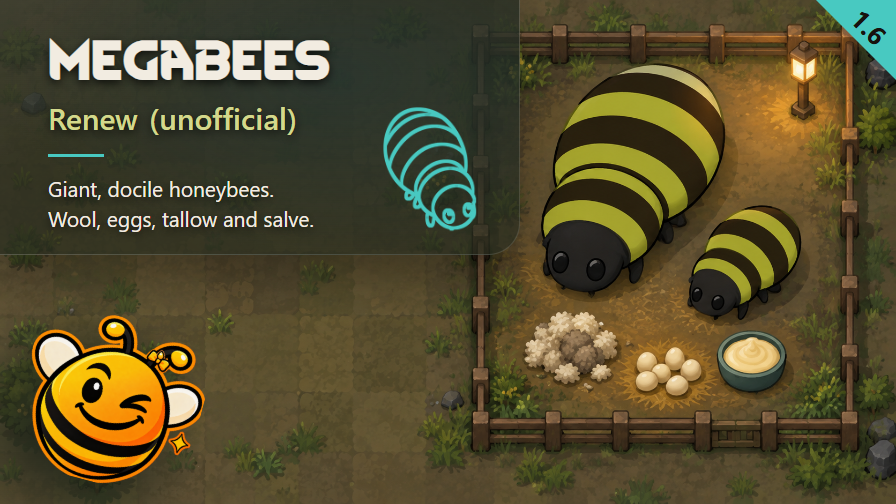
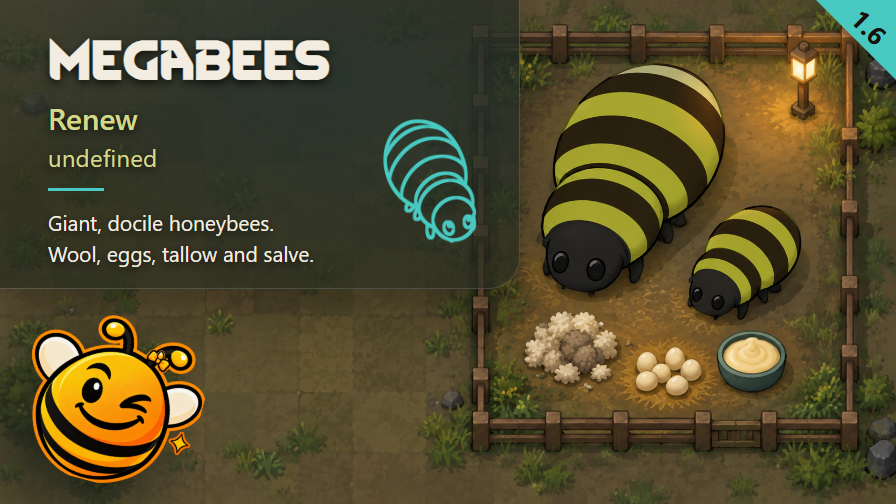
Licence open: drop (unofficial) and UNOFFICIAL paragraph, permission in ATTRIBUTION, Preview regenerated, author line per PUBLISHING.md; protocols read

diff --git a/Tests/test_mod.py b/Tests/test_mod.py
@@ -37,9 +37,9 @@ class ModTests(unittest.TestCase):
     def test_metadata(self):
         a=E.parse(R/'Mod/About/About.xml').getroot()
         self.assertEqual(a.findtext('packageId'),'nelim.megabees')
-        self.assertEqual(a.findtext('name'),'Megabees Renew (unofficial)')
+        self.assertEqual(a.findtext('name'),'Megabees Renew')
         self.assertEqual(a.findtext('supportedVersions/li'),'1.6')
-        self.assertTrue(a.findtext('description').startswith('UNOFFICIAL.'))
+        self.assertNotIn('UNOFFICIAL',a.findtext('description'))
         self.assertTrue(a.findtext('description').endswith('Source code on GitHub ('+a.findtext('url')+')'))
         self.assertEqual((R/'ATTRIBUTION.md').read_bytes(),(R/'Mod/ATTRIBUTION.md').read_bytes())
 

diff --git a/PUBLICATION.md b/PUBLICATION.md
@@ -1,4 +1,4 @@
-# Publication: Megabees Renew (unofficial)
+# Publication: Megabees Renew
 
 What the Workshop page asks for and the repository holds nowhere else: the description, the change notes, the order of the
 captures, the messages to the mods this one is built on, the dependencies, and the answer to the content questions. It serves
@@ -11,16 +11,14 @@ The rules this follows are in `PUBLISHING.md` and `AUDIT.md`, steps `tested -> p
 ## Steam description
 
 The single source, in Markdown: the CI converts it to the Steam description (BBCode) and to the plain-text `<description>` of
-`Mod/About/About.xml`, and stops when they differ. **`About.xml` was regenerated from this block on 2026-10-08 (plain text: bold marks dropped, links written `text (url)`); it is regenerated from this block, not the other way round.** The block below keeps that text, with the sections the rules add: it opens with the UNOFFICIAL paragraph, has `IF I GO
+`Mod/About/About.xml`, and stops when they differ. **`About.xml` was regenerated from this block on 2026-10-08 (plain text: bold marks dropped, links written `text (url)`); it is regenerated from this block, not the other way round.** The block below keeps that text, with the sections the rules add: it has `IF I GO
 QUIET`, `AI-GENERATED` and `THANKS` in that order after the body, then the pointer to `ATTRIBUTION.md` and the licence, and ends with
 the source link. It contains no code fence.
 
 ```markdown
-UNOFFICIAL. This mod is published without the original author's explicit consent. If the original author contacts me to request its removal, I undertake to take it down promptly.
-
 The megabee, brought forward to RimWorld 1.6. A stingless, docile, enormous honeybee engineered to produce rather than to sting.
 
-I am not the author of this mod. The bee is zoura3025's; all I did was the work needed to make it run on 1.6. Credit goes to them, mistakes in the update are mine. If they come back to it, or ask me to take this down, it comes down.
+I am not the author of this mod. The bee is zoura3025's; all I did was the work needed to make it run on 1.6. Credit goes to them, mistakes in the update are mine. They answered my thanks with their permission to maintain it. If they come back to it, or ask me to take this down, it comes down.
 
 Original mod: [Megabees](https://steamcommunity.com/sharedfiles/filedetails/?id=2830700043), last supporting 1.4, last updated in January 2023. Abandoned, not withdrawn.
 
@@ -126,13 +124,13 @@ whether one is still needed. Register updated 2026-10-09 (`WORKSHOP_COMMENTS.md`
 **For Make Honey EVEN MORE Compatible** (page 2959585309; authors per its About.xml: Zaljerem, Steaplay, TurtleShroom), not read yet:
 
 ```
-Hi :) your Mega Bees category under Honey asks for oldmegabee_east, a texture only the original ships, so with the 1.6 port the icon was a red square. I repointed it on my side, nothing of yours is copied: [url=https://steamcommunity.com/sharedfiles/filedetails/?id=3811291235]Megabees Renew (unofficial)[/url]. Thanks for the patch!
+Hi :) your Mega Bees category under Honey asks for oldmegabee_east, a texture only the original ships, so with the 1.6 port the icon was a red square. I repointed it on my side, nothing of yours is copied: [url=https://steamcommunity.com/sharedfiles/filedetails/?id=3811291235]Megabees Renew[/url]. Thanks for the patch!
 ```
 
 **For zoura3025**, on the page of the original:
 
 ```
-Hi zoura3025 :) your megabee was stuck at 1.4, so I carried it to 1.6, credit and all: [url=https://steamcommunity.com/sharedfiles/filedetails/?id=3811291235]Megabees Renew (unofficial)[/url]. Its wildness had silently stopped being read, so it tamed for nothing; that is the only change to your files. If you want it down, say so and it goes.
+Hi zoura3025 :) your megabee was stuck at 1.4, so I carried it to 1.6, credit and all: [url=https://steamcommunity.com/sharedfiles/filedetails/?id=3811291235]Megabees Renew[/url]. Its wildness had silently stopped being read, so it tamed for nothing; that is the only change to your files. If you want it down, say so and it goes.
 ```
 
 ## Dependencies and DLC

diff --git a/STATUS.md b/STATUS.md
@@ -3,7 +3,7 @@ localization: complete
 translation_en: complete
 translation_fr: complete
 settings_audit: not_applicable
-mod:          Megabees Renew (unofficial)
+mod:          Megabees Renew
 packageId:    nelim.megabees
 repo:         Rimworld-Megabees-Renew
 visibility:   public
@@ -26,7 +26,7 @@ code_review_sha: e306e4c69f4999efc8374c34897ef3345332458b
 publication_changelog_review_sha: 313b07d02bf27b9a6f4e6853923f125688d0a14a
 session:      megabees / published[1.0.0]
 updated:      2026-10-09
-protocols_read_sha: 83a2aadef0db6a0f1239dec6eb06f6b651d9e32f
+protocols_read_sha: 742ef65b57aa69474295cd3543e5dd197eec025c
 ---
 
 # Megabees Renew — status
@@ -41,8 +41,8 @@ Older dated sections (audits 2026-09-13 to 2026-10-09, dry-run, publication) are
 - **Translations.** English native in `Mod/Defs`; French 30 keys reviewed by Virginie 2026-10-09; no pawn agreement (animal).
 - **Settings.** `not_applicable`: fixed content balance, no settings page or shortcut.
 - **Compatibility.** Optional ADS 2 patch (`loadBefore`); no patch for XND Nocturnal Animals, Better Crossbreeding, Dogs mate (written reasons in `docs/runs`). Declared incompatible with the original (`zoura3025.megabees`). Hard dependencies: none.
-- **Upstream.** Original has no repository (About.xml has no `<url>`); no PR possible. Licence `silent`; ATTRIBUTION.md identical in `Mod/`.
-- **Next.** Test with Make Honey EVEN MORE Compatible (2959585309), after the non-regression. The cleanup of evidence and WSL waits for that test.
+- **Upstream.** Original has no repository (About.xml has no `<url>`); no PR possible. Licence `open` (permission quoted in ATTRIBUTION.md, identical in `Mod/`).
+- **Next.** 1.0.1 in preparation (not published, workflow_stage keeps published[1.0.0] until then): licence `open` applied 2026-10-10 (no `(unofficial)`, no UNOFFICIAL paragraph, Preview and 0-preview regenerated, ATTRIBUTION permission section); pass 7 (make-honey, patch on) to replay on the final tree, passes 1-5 replay, code review from e306e4c, echo_review, dry-run, publish. After publish: replace the gallery image 0 and the description by hand, rename the item.
 
 WSL note 2026-10-09: pass 7 first failed at staging (exit 1, no report): Universal Processor (2633514537) was in no Workshop folder. Downloaded into the WSL cache with `scripts/download-workshop-wsl.sh` under `Use-Wsl.ps1`; to remove at the cleanup after the test, unless another mod's `wsl-deps` names it. Request retried as `make-honey-English-671ecaf-2`.
 

diff --git a/ATTRIBUTION.md b/ATTRIBUTION.md
@@ -12,7 +12,7 @@ This repository holds the port to RimWorld 1.6 and nothing else.
 | Workshop | [2830700043](https://steamcommunity.com/sharedfiles/filedetails/?id=2830700043) |
 | Last version supported | 1.4 |
 | Last updated | 24 January 2023 |
-| Licence | none stated |
+| Licence | none written; explicit permission from the author, 2026-10-09 (see below) |
 
 **Abandoned, not withdrawn.** The item is still on the Workshop and still downloadable; it stopped
 at 1.4, missing 1.5 and 1.6. Nobody else has picked it up: Mlie has no continuation of it, and a
@@ -75,3 +75,11 @@ validation scripts and the Workshop preview were added with Codex (OpenAI).
 The preview uses OpenAI image generation with the original bee texture as a visual
 reference. The existing bee-smiley icon source was preserved and resized for delivery.
 This addition grants no licence over zoura3025's original material.
+
+## Permission
+
+On 2026-10-09, zoura3025 answered the thanks comment left on the original's Workshop page
+(2830700043): "No problem! Modding is a collaborative effort; I don't mind people maintaining my
+mods while I'm away. Thanks for the shout here <3". That is an explicit permission to maintain
+the mod, and it replaces the Workshop custom this port first rested on. Named credit stays, and the
+takedown on request stays too.

diff --git a/Mod/ATTRIBUTION.md b/Mod/ATTRIBUTION.md
@@ -12,7 +12,7 @@ This repository holds the port to RimWorld 1.6 and nothing else.
 | Workshop | [2830700043](https://steamcommunity.com/sharedfiles/filedetails/?id=2830700043) |
 | Last version supported | 1.4 |
 | Last updated | 24 January 2023 |
-| Licence | none stated |
+| Licence | none written; explicit permission from the author, 2026-10-09 (see below) |
 
 **Abandoned, not withdrawn.** The item is still on the Workshop and still downloadable; it stopped
 at 1.4, missing 1.5 and 1.6. Nobody else has picked it up: Mlie has no continuation of it, and a
@@ -75,3 +75,11 @@ validation scripts and the Workshop preview were added with Codex (OpenAI).
 The preview uses OpenAI image generation with the original bee texture as a visual
 reference. The existing bee-smiley icon source was preserved and resized for delivery.
 This addition grants no licence over zoura3025's original material.
+
+## Permission
+
+On 2026-10-09, zoura3025 answered the thanks comment left on the original's Workshop page
+(2830700043): "No problem! Modding is a collaborative effort; I don't mind people maintaining my
+mods while I'm away. Thanks for the shout here <3". That is an explicit permission to maintain
+the mod, and it replaces the Workshop custom this port first rested on. Named credit stays, and the
+takedown on request stays too.

diff --git a/CHANGELOG.md b/CHANGELOG.md
@@ -8,6 +8,8 @@ in game.
 
 ### Added
 
+- **Licence status `open`**: zoura3025 gave explicit permission to maintain the mod (2026-10-09). The `(unofficial)` suffix, the UNOFFICIAL paragraph, the Preview tag and the README notice are gone; `ATTRIBUTION.md` quotes the permission.
+
 - **Optional patch for Make Honey EVEN MORE Compatible** (`TSP.zal.patchhoney2`, Workshop 2959585309). That mod already accepts the megabee tallow in its honey syrup recipe by defName, but gives its "Mega Bees" category the icon `oldmegabee_east`, a texture only the original Megabees ships: the game logs `Could not load Texture2D` and the category shows the red error square. `Mod/Patches/Compat_MakeHoneyEvenMoreCompatible.xml` repoints that icon at `megabee_east`, guarded by `PatchOperationFindMod`; `About.xml` declares `<loadAfter>` for that mod.
 
 ### Changed

diff --git a/Art/generation-notes.md b/Art/generation-notes.md
@@ -14,8 +14,8 @@ node ../scripts/Render-Preview.cjs
 It writes `Mod/About/Preview.png`, `Art/Gallery/0-preview.png`, `Art/Preview.ico` and
 `Art/ModIcon.ico`; reproducible layout checks are generated under `Art/.render/`.
 
-`Megabees` uses the RimWorld title font. `Renew`, `(unofficial)` and the description use
-Segoe UI; `Renew (unofficial)` stays on one line at one size. The line-art is flipped
+`Megabees` uses the RimWorld title font. `Renew` and the description use
+Segoe UI; `Renew` stays on one line at one size. The line-art is flipped
 horizontally and the ModIcon sits bottom-left at 15 degrees.
 
 ## Original background prompt

diff --git a/README.md b/README.md
@@ -1,7 +1,4 @@
-# Megabees Renew (unofficial)
-
-UNOFFICIAL. This mod is published without the original author's explicit consent.
-If the original author contacts me to request its removal, I undertake to take it down promptly.
+# Megabees Renew
 
 The megabee, brought forward to RimWorld 1.6.
 

diff --git a/FRENCH_REVIEW.md b/FRENCH_REVIEW.md
@@ -1,4 +1,4 @@
-# French review - Megabees Renew (unofficial)
+# French review - Megabees Renew
 
 Generated by `scripts/Make-FrenchReview.ps1` from revision `599723f`. Do not edit by hand: regenerate. The Original column repeats the English text (no source language recorded).
 
